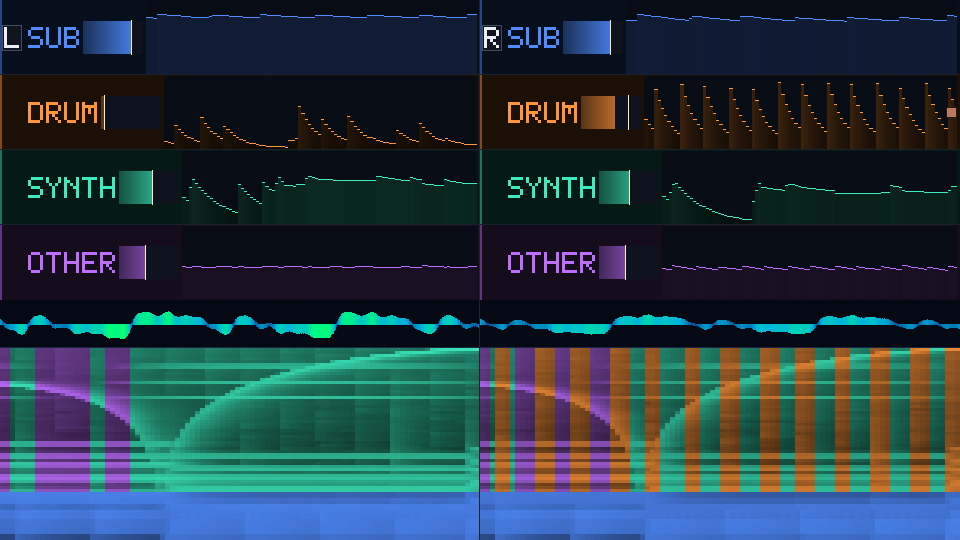
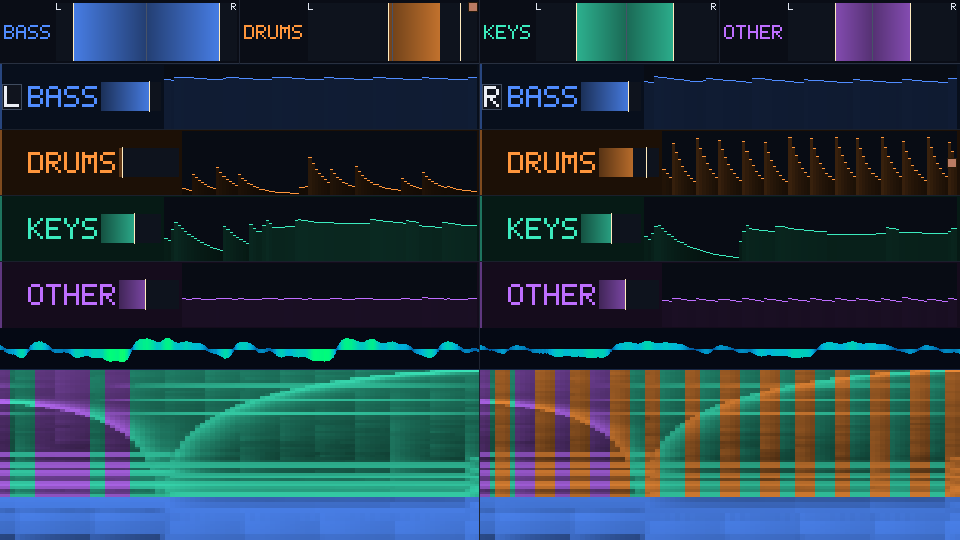
Add instrument-bus separation overlay to stereo visualizer

diff --git a/README.md b/README.md
@@ -87,11 +87,11 @@ slices, and printing.
 - there is no per-tick allocation and no printing in the hot path, so the
   compute-time band stays tight and there are no GC pauses.
 
-`visualizer.goose` is the realtime multi-channel, stem-aware audio visualizer:
+`visualizer.goose` is the realtime multi-channel instrument-bus visualizer:
 
 | Offscreen 960x540, stereo (`pixi run screenshot`) | ANSI terminal, 160×40 pty |
 | --- | --- |
-| ![Stereo stem panels](screenshots/visualizer.png) | ![ANSI terminal](screenshots/terminal.png) |
+| ![Stereo instrument panels](screenshots/visualizer.png) | ![ANSI terminal](screenshots/terminal.png) |
 
 - `src/capture.c` opens the default capture device through vendored
   miniaudio with its **native channel count** (or `--channels N`): 48 kHz
@@ -101,30 +101,39 @@ slices, and printing.
   A mono device is the degenerate one-channel case.
 - the hot loop keeps a 2048-sample ring per channel, applies a Hann window and
   runs an in-place radix-2 FFT. Twiddles and the bit-reversal table are built
-  once. Each channel gets its own 64-band bank and four labelled stem lanes:
-  - `SUB` — low energy, 30–180 Hz, blue.
-  - `DRUM` — high-band spectral flux (1.5–16 kHz) with an adaptive flux floor,
-    a fast transient envelope and a high-frequency ratio; amber, with a compact
-    hit blinker. A 100 ms refractory stops one hit from retriggering.
-  - `SYNTH` — prominent harmonic peaks from 180 Hz to 8 kHz, where a bin must
-    be a local maximum and at least 1.6x its neighbours; cyan/green.
+  once. Each channel gets its own 64-band bank and four labelled instrument
+  buses:
+  - `BASS` — low energy, 30–180 Hz, blue.
+  - `DRUMS` — high-band spectral flux (1.5–16 kHz) with an adaptive flux
+    floor, a fast transient envelope and a high-frequency ratio; amber, with a
+    compact hit blinker. A 100 ms refractory stops one hit from retriggering.
+  - `KEYS` — prominent harmonic peaks from 180 Hz to 8 kHz (the tonal/synth
+    content), where a bin must be a local maximum and at least 1.6x its
+    neighbours; cyan/green.
   - `OTHER` — the broadband mid/high residual after subtracting tonal peaks
     and transient flux; violet.
+- a top **instrument-bus strip** summarizes BASS, DRUMS, KEYS and OTHER
+  across stereo: each cell has a mirrored L/R meter (L left, R right) with peak
+  holds, and DRUMS gets a hit blinker. It is a compact cross-channel view, not
+  extra audio capture. The strip is shown at 160 columns or wider; narrower
+  terminals give the full height to the L/R panels, which still have all four
+  instrument lanes.
 - channels render as side-by-side panels. Mono shows one full-width panel;
   stereo shows `L`/`R`; up to `CH_MAX = 8` channels get `1`…`8` badges. Each
-  panel has the four labelled stem lanes, a waveform strip, and a stem-tinted
-  96-column spectrogram. Every lane has a 5x7 pixel label, a current-level
-  meter, a peak-hold marker, and a sparkline of its own level over the shared
-  history pool.
+  panel has the four labelled instrument lanes, a waveform strip, and a
+  bus-tinted 96-column spectrogram. Every lane has a 5x7 pixel label, a
+  current-level meter, a peak-hold marker, and a sparkline of its own level
+  over the shared history pool. With more than two channels the top strip
+  summarizes L/R (channels 0 and 1); the panels show all channels.
 - a software RGB framebuffer is drawn from the channel panels. The terminal
   path turns each 1x2 pixel pair into a `▀` with truecolor foreground and
   background; `--png` writes the same framebuffer as a PNG. `src/host.c`
   handles raw mode, terminal size, non-blocking keys and the PNG write.
 - all long-lived state is preallocated. Each channel's samples, magnitudes,
-  previous magnitudes, band levels, stem targets/levels/peaks and hit state
+  previous magnitudes, band levels, instrument-bus targets/levels/peaks and hit state
   live in a `reusable` `ChannelState` pool preallocated to the compile-time
   maximum (`CH_MAX = 8`); unused slots are simply not drawn. The history is a
-  `reusable` pool of 96 `Snap` records holding per-channel spectra and stem
+  `reusable` pool of 96 `Snap` records holding per-channel spectra and instrument-bus
   levels, allocated once at startup; a full ring frees the oldest slot and
   reuses it. The footer reports `ch 2/8  ring 96/96  pool 96`, so neither pool
   grows. Per-frame scratch (the `Snap` value passed to `alloc_index`, FFT and
@@ -132,24 +141,28 @@ slices, and printing.
   the iteration. There is no grow-only array in the frame loop.
 - smoothing is time-based one-pole attack/release, not per-frame constants, so
   the lanes read the same at 30 and 60 fps; `--fps 60` is supported. The
-  spectrogram bands and stem envelopes use separate taus.
+  spectrogram bands and instrument-bus envelopes use separate taus.
 - live capture is used when a device exists. If miniaudio falls back to its
   Null backend (no `/dev/snd`, a container, CI) the program says so and
   switches to a deterministic synthetic source. Synthetic defaults to stereo
   (`--channels 2`), `--channels 1` is mono, and `--channels 8` exercises the
   maximum. `--synthetic` forces the test signal, `--live` forces the silent
   device.
-- keys: `q` quit, `s` toggle synthetic/live, `p` pause, space clears stem
+- keys: `q` quit, `s` toggle synthetic/live, `p` pause, space clears instrument
   peak-holds.
 - quick start: `pixi run viz`; see
   [Run the visualizer](#run-the-visualizer) for native, PNG and flag forms.
 
-**Stem and channel tuning knobs** (all in `visualizer.goose`):
+**Instrument-bus and channel tuning knobs** (all in `visualizer.goose`):
 
 - channel maximum: `CH_MAX = 8` in Goose and `CAP_MAX_CHANNELS = 8` in
   `src/capture.c` (they are checked against each other at startup);
 - synthetic source: defaults to stereo, pans tonal content left and percussion
   right while keeping bass centred; `--channels 1` restores the mono mix;
+- instrument buses are display groupings from spectral features, not true
+  source separation. They cannot isolate vocals or arbitrary instruments; a
+  real separator (for example Demucs) would be a separate ML/offline
+  dependency and is deliberately not included;
 - band edges at the top: `SUB_HZ_LO/HI` 30/180 Hz, `MID_HZ_HI` 2 kHz,
   `HIGH_HZ_HI` 16 kHz, `FLUX_HZ_LO` 1.5 kHz, `TONAL_HZ_HI` 8 kHz;
 - harmonic prominence: a tonal bin must exceed its neighbours by 1.6x;
@@ -354,32 +367,32 @@ the headroom at 30 and 60 fps, and the channel scaling):
 
 ```text
 # JIT, stereo (goose run)
-bench: frames=240 size=960x540 avg_ms=9.9 min_ms=8.6 max_ms=11.6 ch=2/8 chpool=8 pool=96/96 audio_s=8
-       ch 0 stems sub=82 drum=5 synth=55 other=44 hits=17
-       ch 1 stems sub=80 drum=56 synth=51 other=44 hits=32
+bench: frames=240 size=960x540 avg_ms=10.4 min_ms=8.7 max_ms=15.7 ch=2/8 chpool=8 pool=96/96 audio_s=8
+       ch 0 bass=82 drums=5 keys=55 other=44 hits=17
+       ch 1 bass=80 drums=56 keys=51 other=44 hits=32
        onset_avg=8 onset_max=100
-       implied headroom: 100 frames/s (analysis+render only)
+       implied headroom: 95 frames/s (analysis+render only)
 
 # native, stereo (goose build)
-bench: frames=600 size=960x540 avg_ms=2.5 min_ms=2.1 max_ms=3.8 ch=2/8 chpool=8 pool=96/96 audio_s=20
-       ch 0 stems sub=81 drum=35 synth=33 other=45 hits=45
-       ch 1 stems sub=81 drum=51 synth=26 other=45 hits=80
+bench: frames=600 size=960x540 avg_ms=2.7 min_ms=2.2 max_ms=4.1 ch=2/8 chpool=8 pool=96/96 audio_s=20
+       ch 0 bass=81 drums=35 keys=33 other=45 hits=45
+       ch 1 bass=81 drums=51 keys=26 other=45 hits=80
        onset_avg=9 onset_max=100
-       implied headroom: 389 frames/s (analysis+render only)
+       implied headroom: 369 frames/s (analysis+render only)
 
 # JIT, 8 channels (compile-time maximum)
-bench: frames=120 size=960x540 avg_ms=15.3 min_ms=12.1 max_ms=19.9 ch=8/8 chpool=8 pool=96/96 audio_s=4
-       ch 0 stems sub=81 drum=22 synth=58 other=46 hits=9
+bench: frames=120 size=960x540 avg_ms=15.4 min_ms=12.3 max_ms=21.5 ch=8/8 chpool=8 pool=96/96 audio_s=4
+       ch 0 bass=81 drums=22 keys=58 other=46 hits=9
        ...
-       ch 7 stems sub=79 drum=57 synth=39 other=43 hits=16
+       ch 7 bass=79 drums=57 keys=39 other=43 hits=16
        onset_avg=10 onset_max=100
-       implied headroom: 65 frames/s (analysis+render only)
+       implied headroom: 64 frames/s (analysis+render only)
 ```
 
-Stem percentages are sampled at the final frame; the synthetic riff changes
+Instrument percentages are sampled at the final frame; the synthetic riff changes
 every two seconds, so they move. At 60 fps the stereo JIT run is about
-9.5 ms/frame (max 14.3 ms), still inside the 16.7 ms budget; the native build
-is about 2.2 ms. The 8-channel path is above 60 fps in a native build; use
+10 ms/frame (max ~16 ms), still inside the 16.7 ms budget; the native build
+is about 2.7 ms. The 8-channel path is above 60 fps in a native build; use
 `--channels 2` for the normal demo and a wide terminal when testing more.
 
 `pixi run goose visualizer.goose -- --list` prints what miniaudio found. In
@@ -448,6 +461,13 @@ goose runtime a5dbd11b6309
   stops at `cannot find cmake`. Add `cmake` to the environment or use a
   prebuilt compiler release with the packages built in. The visualizer does
   not use these packages.
+- **Instrument buses are heuristics, not source separation.** BASS/DRUMS/
+  KEYS/OTHER are display groupings from low-band energy, spectral flux and
+  harmonic peak prominence in the existing FFT. They can show whether a
+  passage is bass-, drum- or tonal-heavy and where it sits in L/R, but they do
+  not isolate vocals or arbitrary instruments and they leak between buses. A
+  true separator (for example Demucs) would add a heavy ML/offline dependency;
+  ask before adding one.
 - **Audio capture needs a device and an audio backend.** The sidecar uses
   miniaudio, which loads `libasound.so.2`, `libpulse.so.0` or JACK with
   `dlopen` at run time. No development headers or extra pixi packages are
@@ -505,9 +525,10 @@ smaller FFT-only sketch of the same hot loop.
   stack plus a bounded ring of recent records in a `reusable` pool.
 - `realtime.goose` — fixed-cadence loop: per-tick stack scratch, a bounded
   outbox in a `reusable` pool, and explicit drop-on-full backpressure.
-- `visualizer.goose` — realtime multi-channel stem-aware audio visualizer:
-  per-channel Hann window, FFT, sub/drum/synth/other lanes, side-by-side
-  channel panels, flux onsets, harmonic peaks, ANSI terminal and PNG output.
+- `visualizer.goose` — realtime multi-channel instrument-bus visualizer:
+  per-channel Hann window, FFT, bass/drums/keys/other lanes, a stereo
+  instrument summary, side-by-side channel panels, flux onsets, harmonic
+  peaks, ANSI terminal and PNG output.
 - `visualizer.build` — the sidecar: compiles `src/*.c` and links `m`,
   `pthread` and `dl`.
 - `src/capture.c` — miniaudio capture with native/requested channels,
